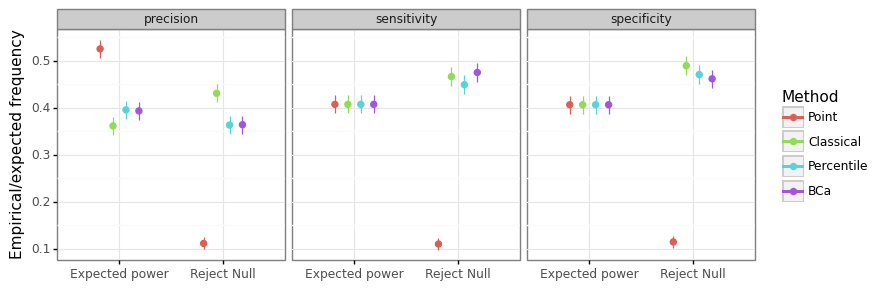
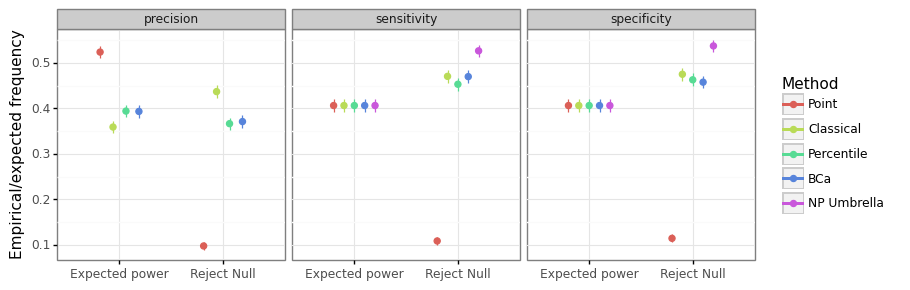
NP Umbrella working and inference lines up

diff --git a/MLStatEval/utils/m_classification.py b/MLStatEval/utils/m_classification.py
@@ -26,6 +26,7 @@ from scipy.stats import norm
 
 # Internal packages
 from MLStatEval.utils.bootstrap import bca_calc
+from MLStatEval.utils.stats import umbrella_thresh
 from MLStatEval.utils.vectorized import quant_by_col, quant_by_bool, loo_quant_by_bool, find_empirical_precision, loo_precision
 from MLStatEval.utils.utils import check01, df_cn_idx_args, clean_y_s, clean_y_s_threshold, to_array, array_to_float, try_flatten
 
@@ -38,7 +39,7 @@ percentile:             Use the alpha (or 1-alpha) percentile
 bca:                    Bias-corrected and accelerated bootstrap
 umbrella:               Neyman-Pearson Umbrella
 """
-lst_method = ['point', 'basic', 'percentile', 'bca']  #, 'umbrella'
+lst_method = ['point', 'basic', 'percentile', 'bca', 'umbrella']
 
 # self = sens_or_spec(choice=m, method=lst_method, alpha=0.05, n_bs=1000, seed=1)
 class sens_or_spec():
@@ -152,11 +153,13 @@ class sens_or_spec():
             assert seed > 0, 'seed must be positive!'
             self.seed = int(seed)
         # Do we want to add or subtract off z standard deviations?
-        z_alpha = norm.ppf(self.alpha)
         m_alpha = self.alpha
         if self.choice == 'specificity':
             m_alpha = 1 - self.alpha
         q_alpha = norm.ppf(m_alpha)
+        upper = True
+        if self.choice == 'sensitivity':
+            upper = False
         # Make scores into column vectors
         y, s = clean_y_s(y, s)
         y_bool = (y==self.j)
@@ -187,18 +190,19 @@ class sens_or_spec():
             # iv) Bias-corrected and accelerated
             # Calculate LOO statistics
             threshold_loo = loo_quant_by_bool(data=s, boolean=y_bool, q=self.m_gamma)
-            threshold_loo_mu = np.expand_dims(bn.nanmean(threshold_loo, axis=1), 1)
-            # BCa calculation
-            zhat0 = norm.ppf((np.sum(threshold_bs < threshold, 0) + 1) / (self.n_bs + 1))
-            num = bn.nansum((threshold_loo_mu - threshold_loo)**3,axis=1)
-            den = 6* (bn.nansum((threshold_loo_mu - threshold_loo)**2,axis=1))**(3/2)
-            ahat = num / den
-            alpha_adj = norm.cdf(zhat0 + (zhat0+z_alpha)/(1-ahat*(zhat0+z_alpha)))
-            alpha_adj = try_flatten(alpha_adj)
-            if self.choice == 'specificity':
-                alpha_adj = 1 - alpha_adj
-            threshold_bca = quant_by_col(threshold_bs, alpha_adj)
+            threshold_bca = bca_calc(loo=np.squeeze(threshold_loo),bs=threshold_bs.T, baseline=threshold, alpha=self.alpha, axis=0,upper=upper)
             di_threshold['bca'] = threshold_bca
+        if 'umbrella' in self.method:
+            if self.choice == 'sensitivity':
+                n = np.sum(y, axis=0)
+                s_sort = np.sort(np.where(y == 1, s, np.nan), axis=0)
+            else:
+                n = np.sum(1 - y, axis=0)
+                s_sort = np.sort(np.where(y == 0, s, np.nan), axis=0)
+            idx_umb = umbrella_thresh(n=n ,target=self.gamma, alpha=self.alpha, upper=upper)
+            threshold_umb = np.take_along_axis(s_sort, idx_umb[None], axis=0)
+            threshold_umb = try_flatten(threshold_umb)
+            di_threshold['umbrella'] = threshold_umb
         # Return different CIs
         res_ci = pd.DataFrame.from_dict(di_threshold)
         # If it's a 1x1 array or dataframe, return as a float
@@ -333,6 +337,8 @@ class precision():
             di_threshold['bca'] = threshold_bca
         # Return different CIs
         res_ci = pd.DataFrame.from_dict(di_threshold)
+        # Remove null columns
+        res_ci = res_ci.loc[:,~res_ci.isnull().all()]
         # If it's a 1x1 array or dataframe, return as a float
         res_ci = array_to_float(res_ci)
         return res_ci        

diff --git a/MLStatEval/utils/stats.py b/MLStatEval/utils/stats.py
@@ -1,11 +1,49 @@
 import numpy as np
 import pandas as pd
+from scipy.special import comb
 from scipy.stats import rankdata, skewnorm
 from scipy.optimize import root_scalar
 from statsmodels.stats.proportion import proportion_confint as prop_CI
 # Internal modules
-from MLStatEval.utils.utils import cvec
+from MLStatEval.utils.utils import cvec, check01, array_to_float
 
+def umbrella_thresh(n, target, alpha, upper=True):
+    """
+    Function to implement Neyman-Pearson umbrella rank choice. WARNING, if n is too large, overflow error possible
+
+    Parameters
+    ----------
+    n:          sample size (class specific)
+    k:          performance target
+    alpha:      type-I error
+    upper:      should k be for for the ascending or descending rank order?
+    Returns
+    -------
+    """
+    assert check01(target), 'target needs to be between (0,1)'
+    assert check01(alpha), 'alpha needs to be between (0,1)'
+    is_float = (isinstance(n, int) or isinstance(n, float))
+    is_array = (isinstance(n, np.ndarray) | isinstance(n, pd.Series))
+    assert is_float or is_array, 'n must be either a float/int or an array'
+    if is_float:
+        n_seq = np.array([n])
+    else:
+        n_seq = pd.Series(np.unique(n))
+    di_holder = {}
+    for n1 in n_seq:
+        rank_seq = np.arange(n1+1)
+        rank_pdf = np.array([comb(n1, l, True)*((1-target)**l)*(target**(n1-l)) for l in rank_seq])
+        rank_cdf = np.array([rank_pdf[l:].sum() for l in rank_seq])
+        res = pd.DataFrame({'rank':rank_seq, 'pdf':rank_pdf, 'cdf':rank_cdf, 'delt':1-rank_cdf})
+        rmax = res[res['delt'] <= alpha]['rank'].argmax()
+        if upper:
+            rmax = n1 - rmax
+        else:  # Flip
+            rmax -= 1  # For numpy indexing
+        di_holder[n1] = rmax
+    rvec = np.array(pd.Series(n).map(di_holder))
+    rvec = array_to_float(rvec)
+    return rvec
 
 
 # Probability that one skewnorm is less than another

diff --git a/MLStatEval/simulations/p2_threshold_power.py b/MLStatEval/simulations/p2_threshold_power.py
@@ -22,7 +22,7 @@ dir_figures = os.path.join(dir_here, 'figures')
 # dir_figures = os.path.join(os.getcwd(),'MLStatEval','simulations','figures')
 
 # Labels for methods
-di_method = {'point':'Point', 'basic':'Classical', 'percentile':'Percentile', 'bca':'BCa'}
+di_method = {'point':'Point', 'basic':'Classical', 'percentile':'Percentile', 'bca':'BCa', 'umbrella':'NP Umbrella'}
 
 ###############################
 # ----- (1) PARAMETERS ------ #
@@ -33,7 +33,7 @@ p = 0.5
 mu1, mu0 = 1, 0
 sd1, sd0 = 1, 1
 n_test = 100
-k_exper = 2500
+k_exper = 5000
 idx_exper = np.arange(k_exper)+1
 normal_dgp = gaussian_mixture()
 normal_dgp.set_params(p, mu1, mu0, sd1, sd0)
@@ -143,7 +143,6 @@ height = n_method*2.5
 # Order categories
 tmp_thresh = df_thresh.assign(method=lambda x: pd.Categorical(x['method'], list(di_method)))
 tmp_txt = pos_txt.assign(method=lambda x: pd.Categorical(x['method'], list(di_method)))
-
 # (i) Threshold and oracle
 gg_threshold_method = (pn.ggplot(tmp_thresh, pn.aes(x='threshold')) + pn.theme_bw() + 
     pn.labs(x='Empirically chosen threshold',y='Simulation frequency') + 
